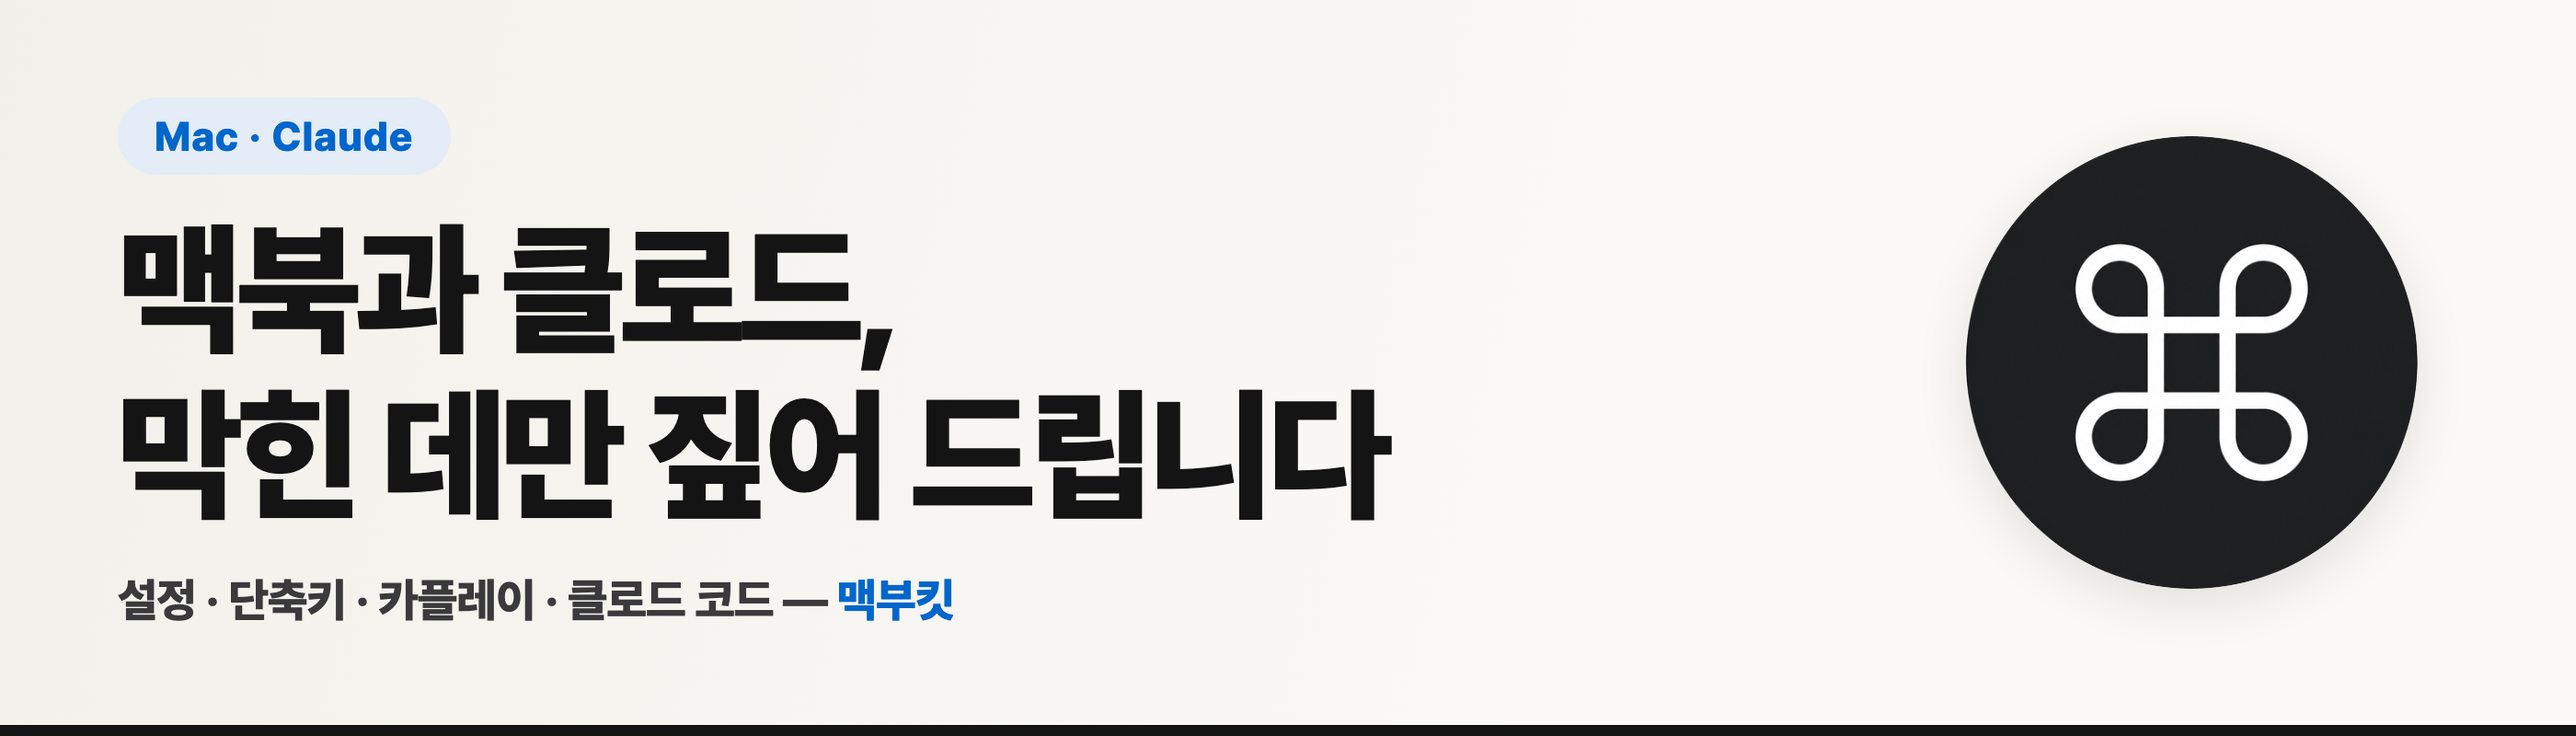
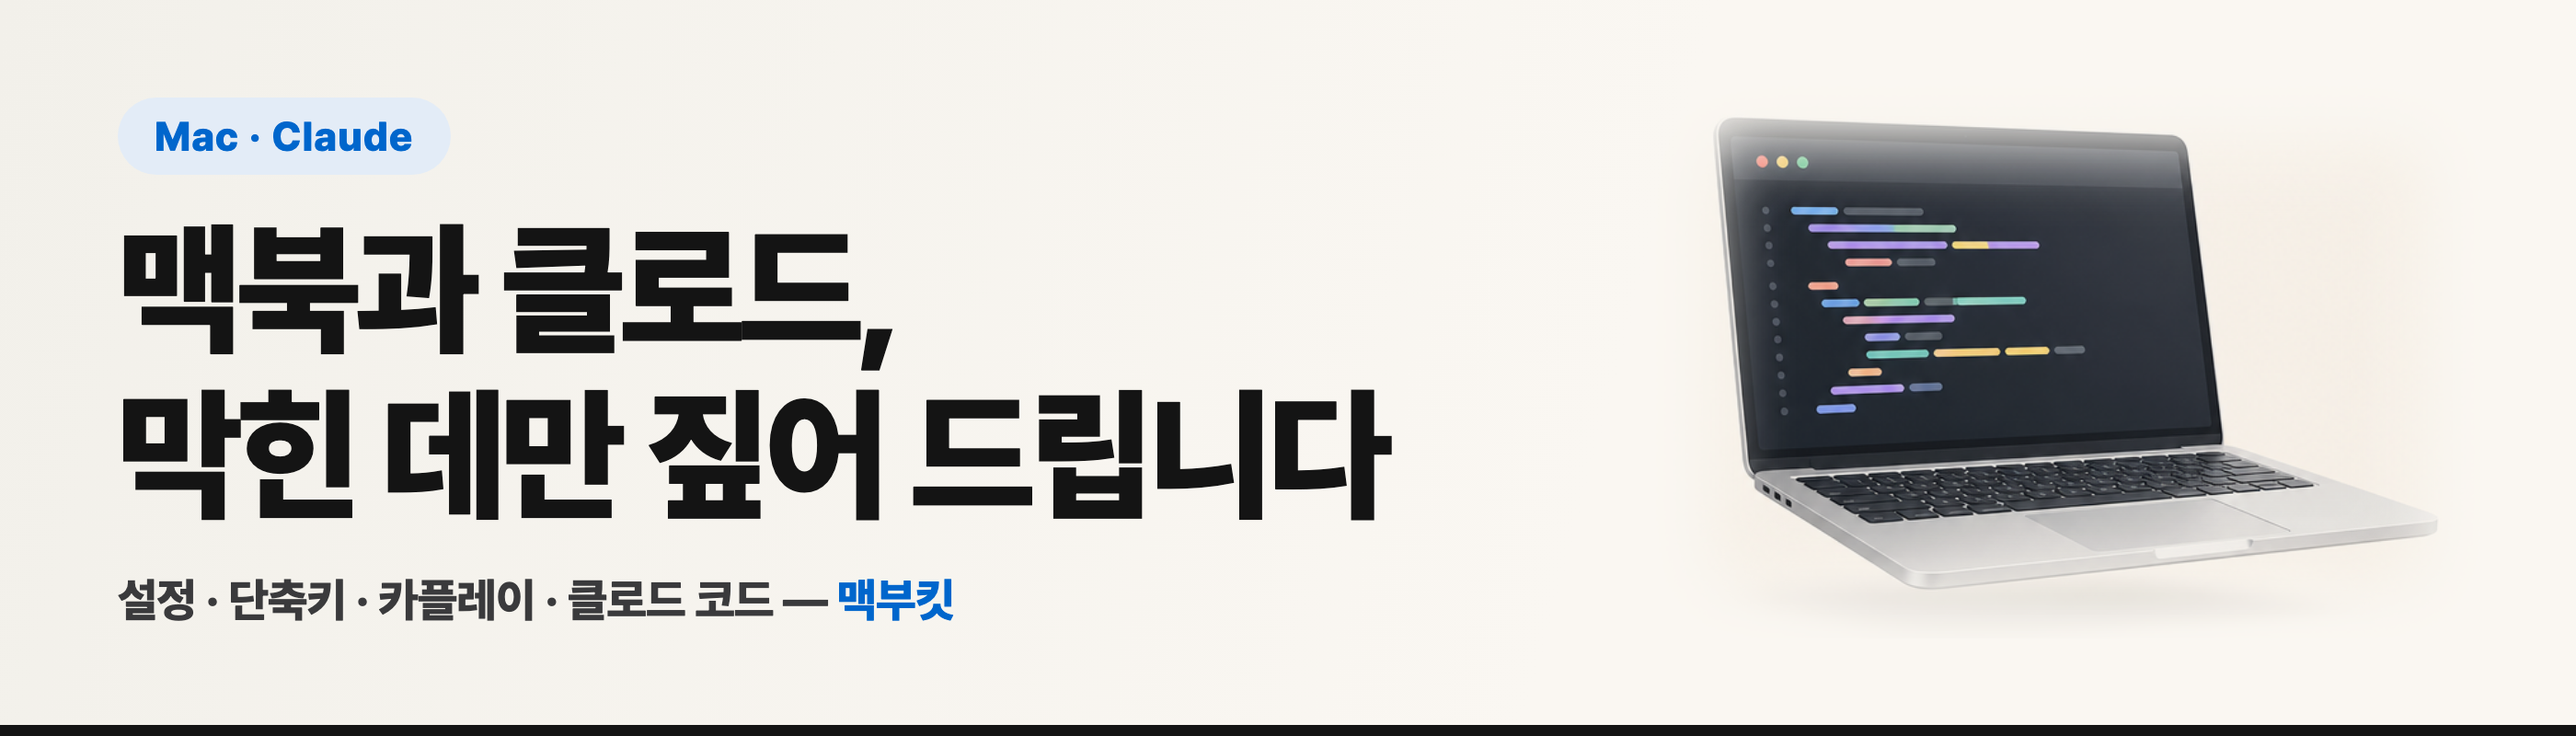
feat(brand): 배너에 맥북 일러스트
image-gen 이 "no text" 지시를 무시하고 한글 인포그래픽을 냈다 —
맥북 부분만 크롭해 썼다(재생성보다 싸고 빠르다).
사각 경계가 배너 크림 위에 도드라져 가장자리를 알파 페이드했다.
배경색 치환은 맥북 은색 몸체까지 먹어서 쓰지 않았다.

Claude-Session: https://claude.ai/code/session_012tPPhjthmEbBcz8SBm9Lwy

Changed region(s): [[0.6525, 0.1562, 0.9632, 0.8125]]

diff --git a/macbookit-tistory/brand/banner.css b/macbookit-tistory/brand/banner.css
@@ -1,6 +1,6 @@
 /* 계열 공통 상단 배너 — 네이버 dokyungja·doonablog 문법을 그대로 쓴다.
    라벨 뱃지 → 헤드라인 2줄 → 부제 → 우측 심볼 → 굵은 하단선. */
-:root{ --bg1:#F2F0EA; --bg2:#FAF9F6; --badge-bg:#E3ECF7; --badge:#0066CC;
+:root{ --bg1:#F2F0EA; --bg2:#FAF7F2; --badge-bg:#E3ECF7; --badge:#0066CC;
        --head:#141414; --sub:#3A3A3C; --brand:#0066CC; --rule:#141414; }
 *{box-sizing:border-box}
 body{margin:0;width:1400px;height:400px;position:relative;
@@ -22,3 +22,8 @@ h1{margin:0;font-size:78px;line-height:1.16;color:var(--head);
       width:246px;height:246px;border-radius:50%;overflow:hidden;
       box-shadow:0 8px 28px rgba(0,0,0,.10)}
 .mark img{width:100%;height:100%;display:block}
+/* 일러스트는 원형으로 자르지 않는다 — 네이버처럼 배경 위에 «떠 있게» 둔다.
+   생성 이미지의 크림 배경(#FAF7F2)이 배너 배경과 붙어 경계가 안 보인다. */
+.mark.plain{width:auto;height:300px;right:52px;border-radius:0;
+            overflow:visible;box-shadow:none;mix-blend-mode:multiply}
+.mark.plain img{width:auto;height:100%}

diff --git a/macbookit-tistory/brand/make_banner.py b/macbookit-tistory/brand/make_banner.py
@@ -44,6 +44,8 @@ def main() -> int:
     ap.add_argument("--mark", default="profile-circle.png",
                     help="우측 원형 심볼 파일명 (brand/ 기준). 'none' 이면 뺀다")
     ap.add_argument("--palette", choices=sorted(PALETTES), default="blue")
+    ap.add_argument("--mark-plain", action="store_true",
+                    help="심볼을 원형으로 자르지 않고 그대로 얹는다(일러스트용)")
     ap.add_argument("--out", required=True, help="결과 png 경로 (brand/ 기준 가능)")
     a = ap.parse_args()
 
@@ -52,7 +54,8 @@ def main() -> int:
         p = (BRAND / a.mark).resolve()
         if not p.exists():
             raise SystemExit(f"심볼 파일이 없습니다: {p}")
-        mark = f'<div class="mark"><img src="file://{p}"></div>'
+        cls = "mark plain" if a.mark_plain else "mark"
+        mark = f'<div class="{cls}"><img src="file://{p}"></div>'
 
     sub = a.sub
     while "*" in sub:                      # *…* → <b>…</b>
